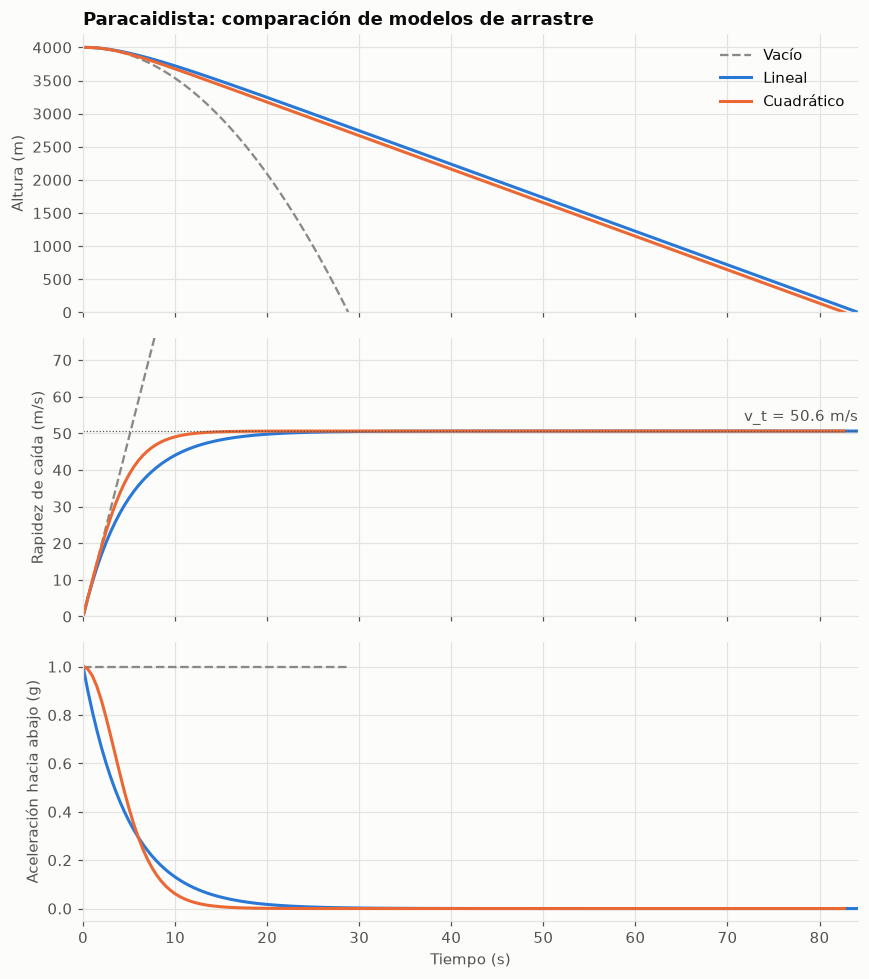
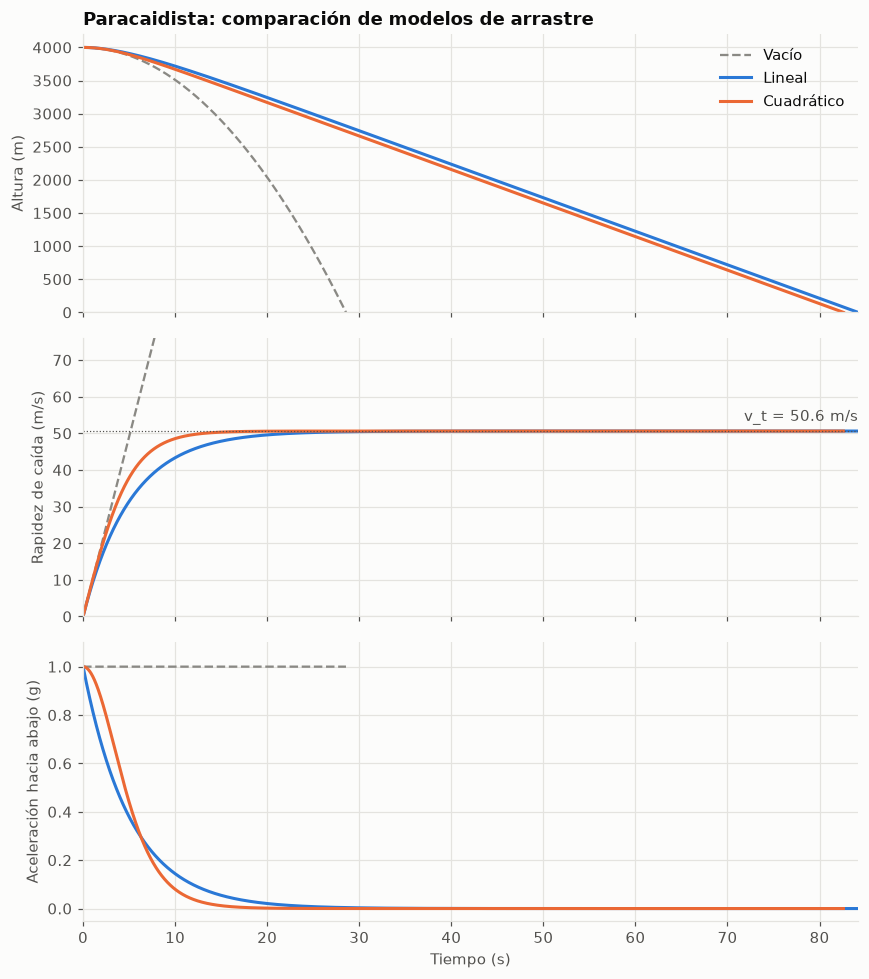
feat: add convergence analysis

diff --git a/freefall/plots.py b/freefall/plots.py
@@ -5,6 +5,9 @@ import matplotlib
 matplotlib.use("Agg")
 import matplotlib.pyplot as plt
 
+from .analytic import solution
+from .convergence import ROUNDOFF_FLOOR
+
 SURFACE = "#fcfcfb"
 TEXT = "#0b0b0b"
 TEXT_MUTED = "#52514e"
@@ -146,3 +149,64 @@ def plot_ball_summary(runs, reference, outdir):
         ax.grid(axis="y", visible=False)
     fig.tight_layout()
     return _save(fig, outdir, "pelotas_resumen.png")
+
+
+METHOD_COLORS = {"euler": SERIES[0], "rk4": SERIES[1]}
+METHOD_ORDERS = {"euler": 1, "rk4": 4}
+
+
+def _reference_slope(ax, dts, errors, order, label):
+    anchor = errors[0] * 3
+    ref = anchor * (dts / dts[0]) ** order
+    ax.loglog(dts, ref, color=REFERENCE, linestyle=":", linewidth=1.2)
+    ax.annotate(label, (dts[0], ref[0]), xytext=(-4, 2), textcoords="offset points",
+                ha="right", va="bottom", color=TEXT_MUTED)
+
+
+def plot_convergence(results, outdir):
+    models = list(dict.fromkeys(r.model_name for r in results))
+    fig, axes = plt.subplots(len(models), 2, figsize=(11, 4.2 * len(models)), sharex=True)
+
+    for row, model_name in enumerate(models):
+        for col, (attr, quantity) in enumerate([("error_y", "posición y (m)"), ("error_v", "velocidad v (m/s)")]):
+            ax = axes[row, col]
+            for r in (r for r in results if r.model_name == model_name):
+                errors = getattr(r, attr)
+                ax.loglog(r.dts, errors, "o-", color=METHOD_COLORS[r.method], markersize=5,
+                          markeredgecolor=SURFACE, markeredgewidth=1, label=r.method.upper())
+                order = METHOD_ORDERS[r.method]
+                valid = errors > ROUNDOFF_FLOOR
+                _reference_slope(ax, r.dts[valid], errors[valid], order, "O(dt)" if order == 1 else f"O(dt^{order})")
+            ax.set_title(f"{model_name}: error máximo en {quantity}")
+            ax.set_ylabel("Error absoluto")
+            ax.invert_xaxis()
+            if row == len(models) - 1:
+                ax.set_xlabel("Paso de tiempo dt (s)")
+    axes[0, 0].legend(loc="center left")
+    fig.tight_layout()
+    return _save(fig, outdir, "convergencia.png")
+
+
+def plot_large_step(model, t, exact, runs, dt, outdir):
+    fig, (ax_v, ax_e) = plt.subplots(1, 2, figsize=(11, 4.2))
+    ax_v.plot(t, abs(exact[1]), color=TEXT, linewidth=1.5, label="Analítica")
+    for method, tr in runs.items():
+        color = METHOD_COLORS[method]
+        ax_v.plot(tr.t, abs(tr.v), "o-", color=color, markersize=6, markeredgecolor=SURFACE,
+                  markeredgewidth=1.5, linewidth=1.2, label=method.upper())
+        _, v_exact = solution(model, tr.t, tr.y[0])
+        ax_e.semilogy(tr.t[1:], abs(tr.v[1:] - v_exact[1:]), "o-", color=color, markersize=6,
+                      markeredgecolor=SURFACE, markeredgewidth=1.5, linewidth=1.2, label=method.upper())
+
+    ax_v.set_title(f"Rapidez con dt = {dt:g} s (modelo cuadrático)")
+    ax_v.set_xlabel("Tiempo (s)")
+    ax_v.set_ylabel("Rapidez de caída (m/s)")
+    ax_v.set_xlim(0, t[-1])
+    ax_v.set_ylim(bottom=0)
+    ax_v.legend(loc="lower right")
+    ax_e.set_title("Error absoluto en v respecto a la analítica")
+    ax_e.set_xlabel("Tiempo (s)")
+    ax_e.set_ylabel("Error (m/s)")
+    ax_e.set_xlim(0, t[-1])
+    fig.tight_layout()
+    return _save(fig, outdir, "metodos_dt_grande.png")

diff --git a/freefall/convergence.py b/freefall/convergence.py
@@ -1,0 +1,88 @@
+from dataclasses import dataclass
+
+import numpy as np
+
+from .analytic import solution
+from .models import LinearDrag, QuadraticDrag
+from .scenarios import SKYDIVER, SKYDIVER_HEIGHT
+from .solvers import simulate
+
+TIME_STEPS = [1.0, 0.5, 0.25, 0.1, 0.05, 0.025, 0.01, 0.005, 0.0025, 0.001, 5e-4, 2.5e-4, 1e-4]
+METHODS = ["euler", "rk4"]
+ROUNDOFF_FLOOR = 1e-9
+
+
+@dataclass
+class ConvergenceResult:
+    model_name: str
+    method: str
+    dts: np.ndarray
+    error_y: np.ndarray
+    error_v: np.ndarray
+
+    def fitted_order(self, errors):
+        mask = (errors > ROUNDOFF_FLOOR) & (self.dts <= 0.5)
+        if mask.sum() < 2:
+            return None
+        slope, _ = np.polyfit(np.log(self.dts[mask]), np.log(errors[mask]), 1)
+        return float(slope)
+
+
+def convergence_models():
+    quadratic = QuadraticDrag.from_body(SKYDIVER)
+    linear = LinearDrag.from_terminal_velocity(SKYDIVER.mass, quadratic.terminal_velocity())
+    return [linear, quadratic]
+
+
+def max_errors(model, method, dt, t_final, h0=SKYDIVER_HEIGHT):
+    tr = simulate(model, h0, dt=dt, t_max=t_final, method=method, stop_at_ground=False)
+    y_exact, v_exact = solution(model, tr.t, h0)
+    return np.max(np.abs(tr.y - y_exact)), np.max(np.abs(tr.v - v_exact))
+
+
+def run_convergence(t_final=20.0, dts=TIME_STEPS):
+    results = []
+    for model in convergence_models():
+        for method in METHODS:
+            errors = np.array([max_errors(model, method, dt, t_final) for dt in dts])
+            results.append(ConvergenceResult(model.name, method, np.array(dts), errors[:, 0], errors[:, 1]))
+    return results
+
+
+def error_rows(results):
+    rows = []
+    for r in results:
+        for i, dt in enumerate(r.dts):
+            local_order = None
+            if i > 0 and r.error_v[i] > ROUNDOFF_FLOOR:
+                local_order = float(np.log(r.error_v[i - 1] / r.error_v[i]) / np.log(r.dts[i - 1] / dt))
+            rows.append({
+                "Modelo": r.model_name,
+                "Método": r.method.upper(),
+                "dt (s)": float(dt),
+                "Error máx. y (m)": float(r.error_y[i]),
+                "Error máx. v (m/s)": float(r.error_v[i]),
+                "Orden local (v)": local_order,
+            })
+    return rows
+
+
+def order_rows(results):
+    return [
+        {
+            "Modelo": r.model_name,
+            "Método": r.method.upper(),
+            "Orden teórico": 1 if r.method == "euler" else 4,
+            "Orden observado (y)": r.fitted_order(r.error_y),
+            "Orden observado (v)": r.fitted_order(r.error_v),
+        }
+        for r in results
+    ]
+
+
+def large_step_runs(dt=2.0, t_final=30.0):
+    model = QuadraticDrag.from_body(SKYDIVER)
+    runs = {m: simulate(model, SKYDIVER_HEIGHT, dt=dt, t_max=t_final, method=m, stop_at_ground=False) for m in METHODS}
+    t = np.linspace(0, t_final, 400)
+    exact = solution(model, t, SKYDIVER_HEIGHT)
+    return model, t, exact, runs

diff --git a/freefall/__main__.py b/freefall/__main__.py
@@ -1,6 +1,6 @@
 import argparse
 
-from . import plots, report, scenarios
+from . import convergence, plots, report, scenarios
 
 
 def cmd_skydiver(args):
@@ -18,6 +18,17 @@ def cmd_balls(args):
     print(f"         {plots.plot_ball_summary(runs, reference, args.salida)}")
 
 
+def cmd_convergence(args):
+    print(f"Convergencia en [0, {args.t_final:g}] s contra la solución analítica\n")
+    results = convergence.run_convergence(args.t_final)
+    print(report.to_text(convergence.error_rows(results)))
+    print()
+    print(report.to_text(convergence.order_rows(results)))
+    model, t, exact, runs = convergence.large_step_runs(args.dt_grande)
+    print(f"\nFiguras: {plots.plot_convergence(results, args.salida)}")
+    print(f"         {plots.plot_large_step(model, t, exact, runs, args.dt_grande, args.salida)}")
+
+
 def build_parser():
     parser = argparse.ArgumentParser(prog="freefall", description="Simulación de caída libre con resistencia del aire")
     sub = parser.add_subparsers(dest="comando", required=True)
@@ -30,6 +41,11 @@ def build_parser():
 
     sub.add_parser("paracaidista", parents=[common], help="salto de paracaidista").set_defaults(func=cmd_skydiver)
     sub.add_parser("pelotas", parents=[common], help="comparación de pelotas").set_defaults(func=cmd_balls)
+    conv = sub.add_parser("convergencia", help="análisis de convergencia de Euler y RK4")
+    conv.add_argument("--t-final", type=float, default=20.0, help="intervalo de integración en segundos")
+    conv.add_argument("--dt-grande", type=float, default=2.0, help="paso para la figura de comparación visual")
+    conv.add_argument("--salida", default="results", help="carpeta de salida")
+    conv.set_defaults(func=cmd_convergence)
     return parser
 
 

diff --git a/README.md b/README.md
@@ -32,6 +32,7 @@ python -m venv .venv
 - `freefall/analytic.py`: soluciones cerradas `y(t)`, `v(t)`.
 - `freefall/solvers.py`: pasos de Euler y RK4, integración con detección de impacto contra el suelo.
 - `freefall/scenarios.py`: escenarios del paracaidista y de las pelotas, y sus métricas.
+- `freefall/convergence.py`: error contra la solución analítica y orden observado de cada método.
 - `freefall/plots.py`: figuras estáticas.
 - `freefall/report.py`: formato de tablas.
 - `freefall/__main__.py`: interfaz de línea de comandos.
@@ -41,6 +42,11 @@ python -m venv .venv
 ```
 .venv/bin/python -m freefall paracaidista [--dt 0.01] [--metodo rk4|euler] [--altura 4000] [--salida results]
 .venv/bin/python -m freefall pelotas      [--dt 0.01] [--metodo rk4|euler] [--altura 56]   [--salida results]
+.venv/bin/python -m freefall convergencia [--t-final 20] [--dt-grande 2] [--salida results]
 ```
 
 Cada comando imprime una tabla de métricas y guarda las figuras en `results/`.
+
+## Análisis de convergencia
+
+Se integra el salto del paracaidista en `[0, t_final]` sin detener la simulación en el suelo, para aislar el error del integrador del error de la detección de impacto. Para cada `dt` entre 1 s y 1e-4 s se mide el error máximo en `y` y en `v` contra la solución analítica. El orden observado se obtiene con un ajuste lineal de `log(error)` contra `log(dt)`, descartando los puntos por debajo de 1e-9, donde domina el error de redondeo.
